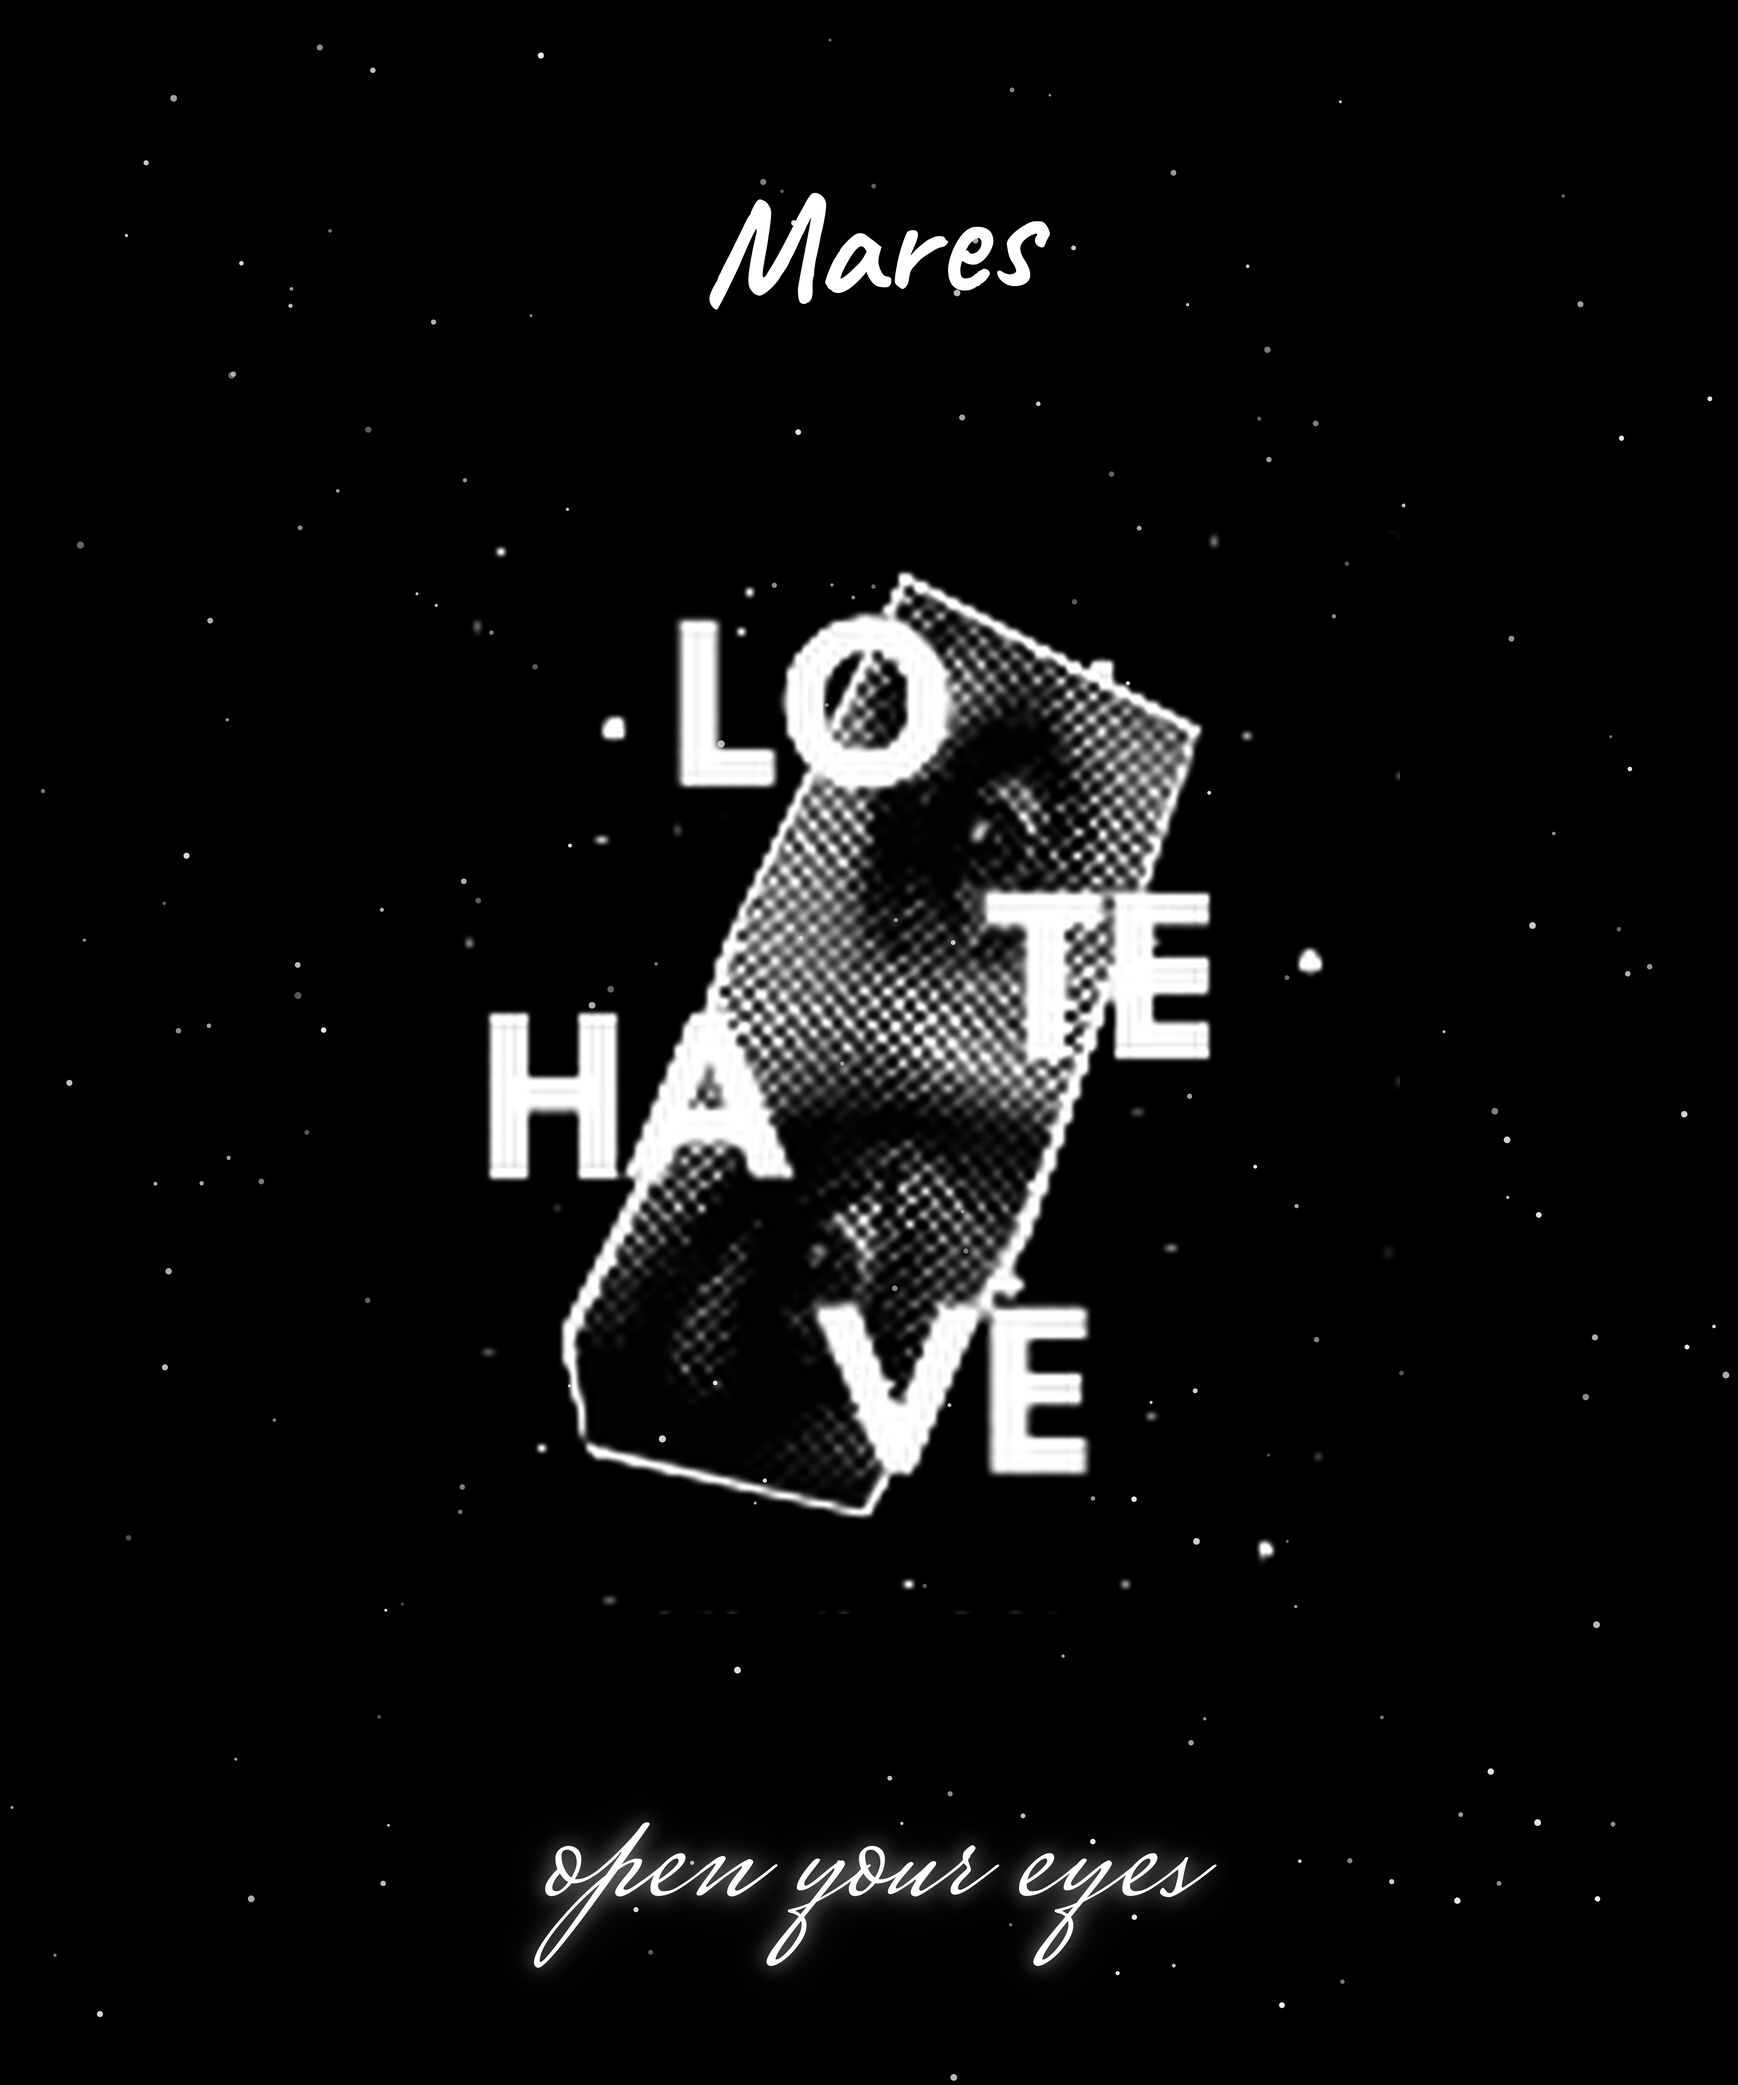
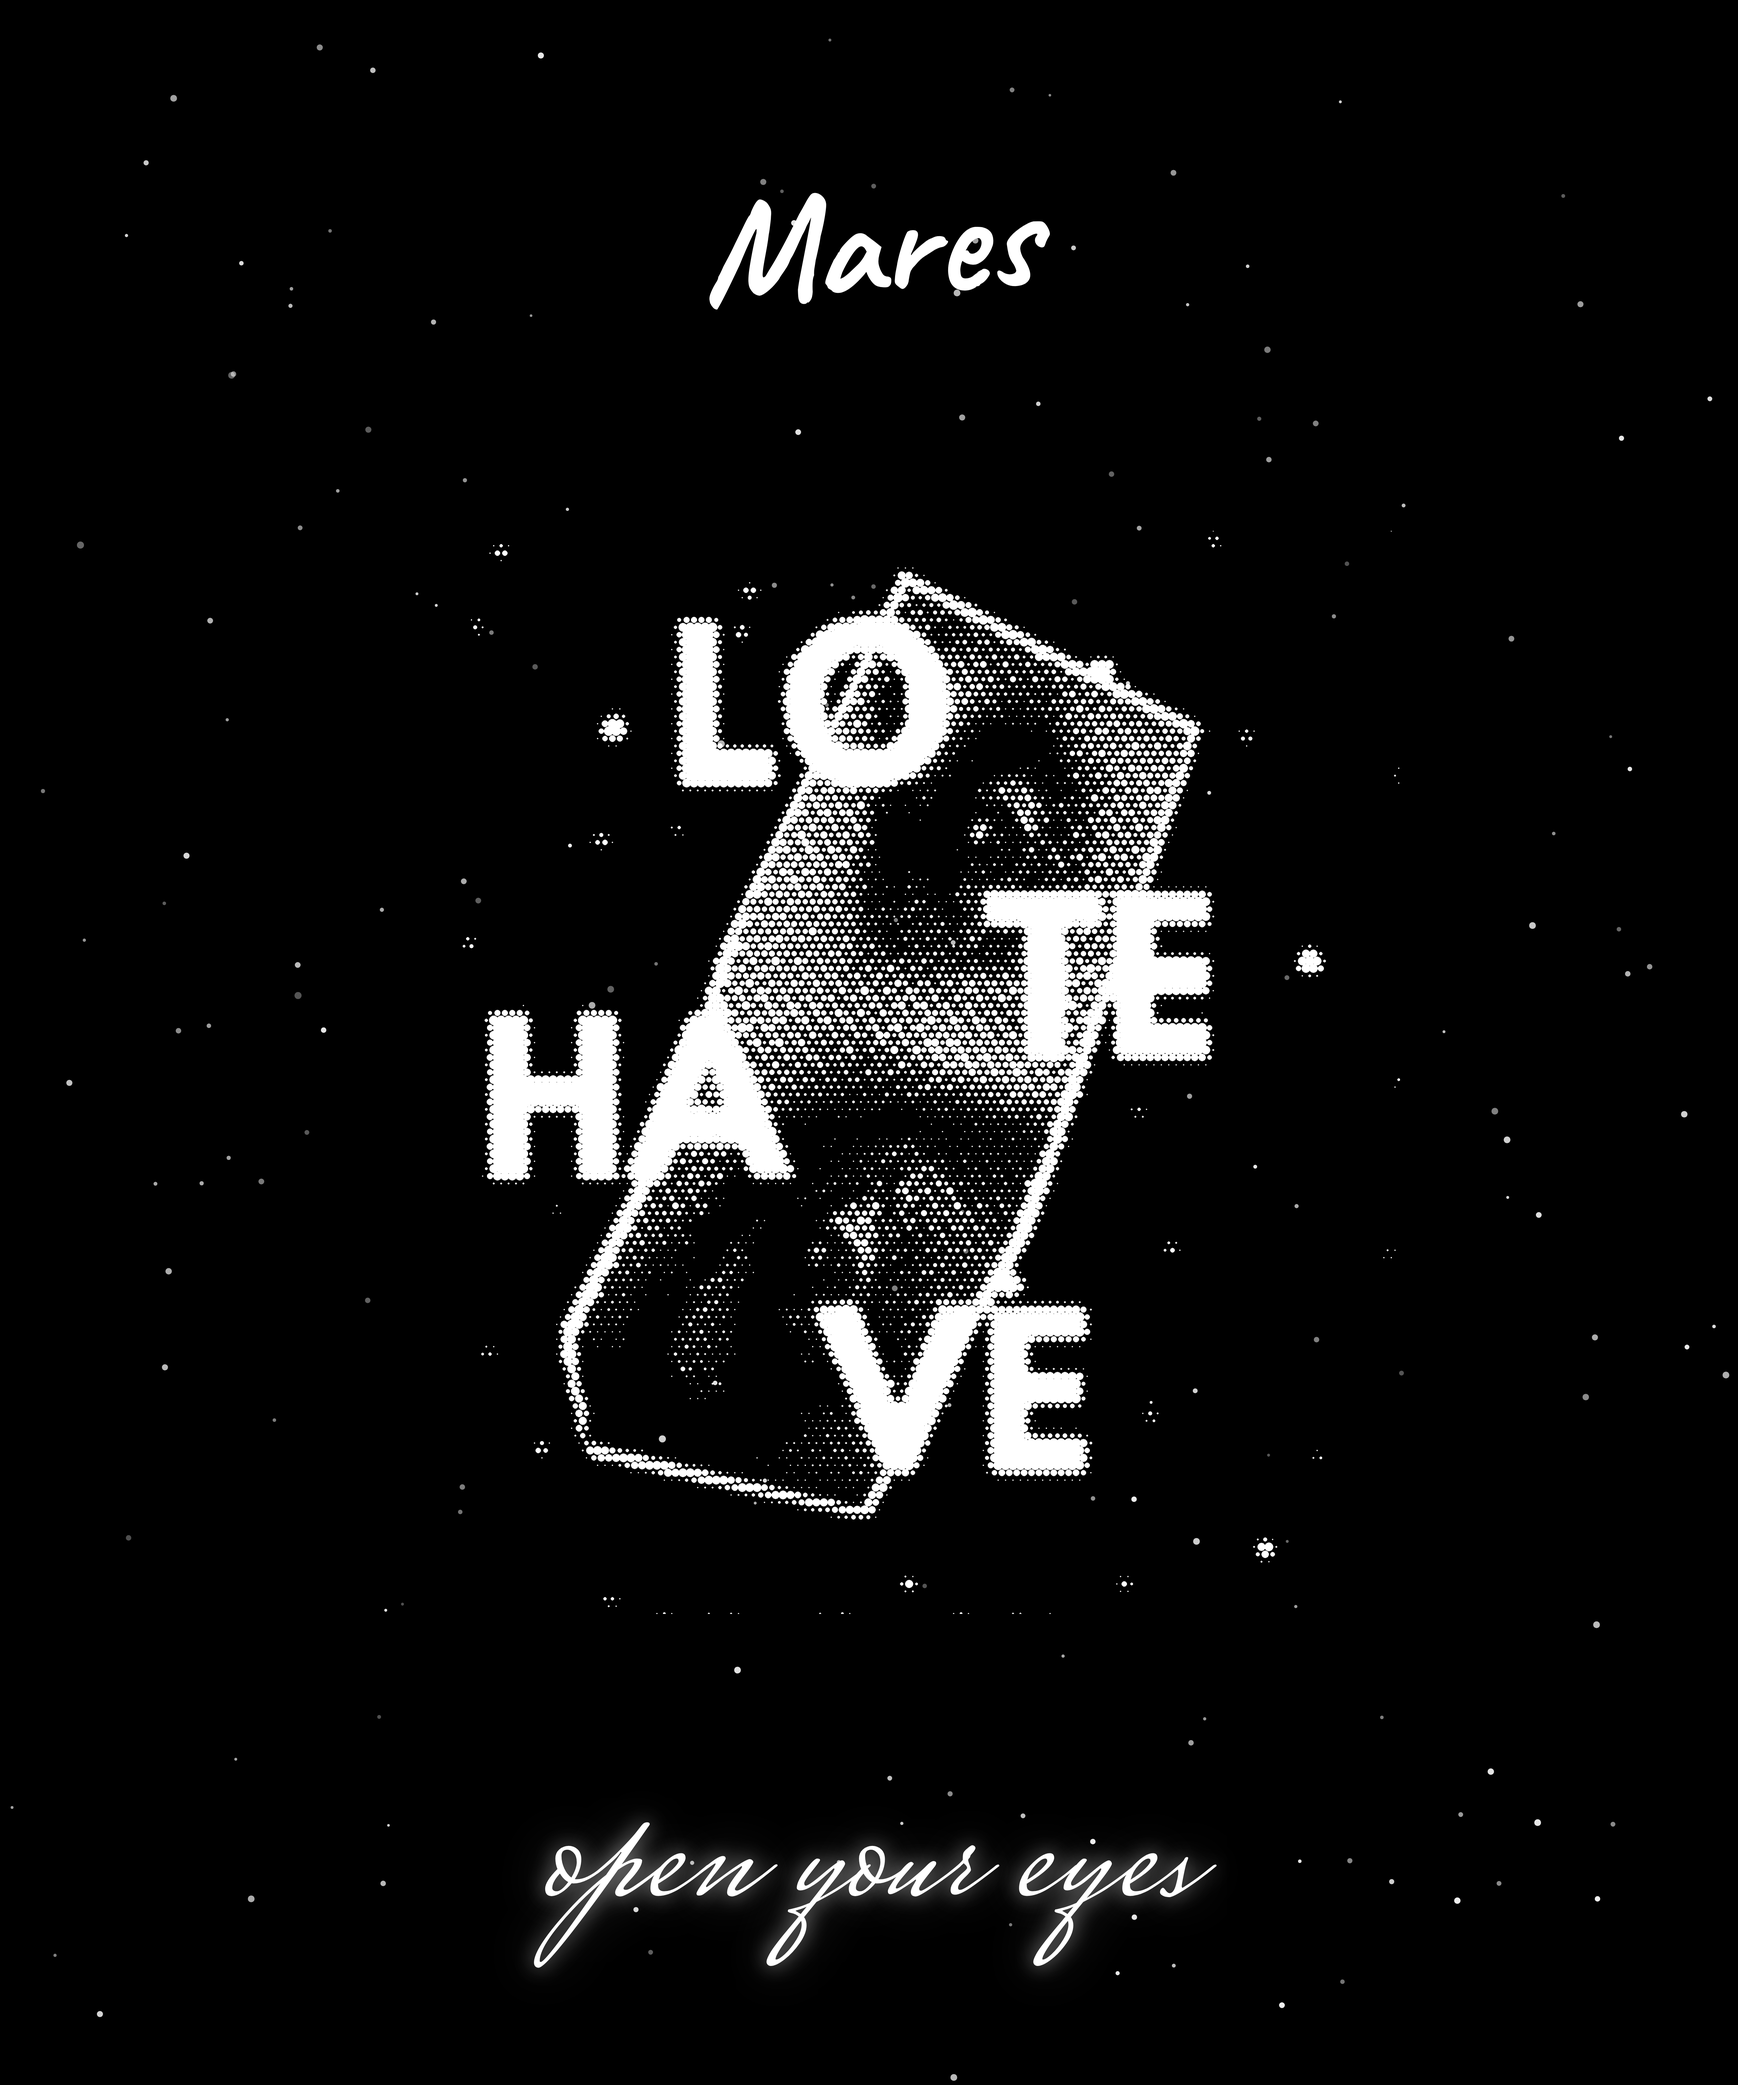
Halftone rescreen for eye and heart prints, hero hoodies on homepage
Rebuild the duality eye strip and anatomical heart print art as crisp
high-resolution halftone rasters matching the storefront look instead
of blockily upscaled bitmaps. Add floating hoodie mockups flanking the
hero planet (site + Shopify theme) with a 'heavyweight organic hoodies'
tagline so the product is obvious at first glance.

Claude-Session: https://claude.ai/code/session_01CMmd7hHney9Uuvu8uMddpz

Changed region(s): [[0.28, 0.2806, 0.7156, 0.7481], [0.7467, 0.4364, 0.7778, 0.4676]]

diff --git a/mares-shop.html b/mares-shop.html
@@ -100,7 +100,31 @@
             -webkit-text-stroke: 1px rgba(255, 255, 255, 0.18);
             filter: drop-shadow(0 3px 5px rgba(0, 0, 0, 0.55)) drop-shadow(0 0 26px rgba(38, 198, 218, 0.35));
         }
-        .hero p.motto { font-size: 1.4rem; font-weight: 300; max-width: 700px; color: #ccc; margin-bottom: 3rem; }
+        .hero p.motto { font-size: 1.4rem; font-weight: 300; max-width: 700px; color: #ccc; margin-bottom: 1rem; }
+        .hero p.hero-sub {
+            font-size: 0.8rem; text-transform: uppercase; letter-spacing: 4px; color: var(--accent-cyan);
+            margin-bottom: 2.6rem; font-weight: 700; position: relative; z-index: 2;
+        }
+
+        /* Floating hoodies flanking the planet */
+        .hero-hoodie {
+            position: absolute; top: 33%; width: 232px; text-decoration: none; z-index: 1;
+            display: flex; flex-direction: column; align-items: center; gap: 4px;
+            transition: transform .35s ease;
+        }
+        .hero-hoodie-left  { left: calc(50% - 460px); transform: rotate(-7deg); animation: float 7.5s ease-in-out infinite; }
+        .hero-hoodie-right { left: calc(50% + 228px); transform: rotate(7deg);  animation: float 8.5s ease-in-out .8s infinite; }
+        .hero-hoodie-left:hover  { transform: rotate(-4deg) scale(1.05); }
+        .hero-hoodie-right:hover { transform: rotate(4deg) scale(1.05); }
+        .hero-hoodie-art { width: 100%; filter: drop-shadow(0 18px 30px rgba(0,0,0,0.65)) drop-shadow(0 0 26px rgba(38,198,218,0.12)); }
+        .hero-hoodie-art svg { width: 100%; height: auto; display: block; }
+        .hero-hoodie-tag {
+            font-size: 0.68rem; text-transform: uppercase; letter-spacing: 2.5px; color: #9adfe8;
+            background: rgba(38,198,218,0.08); border: 1px solid rgba(38,198,218,0.35);
+            padding: 5px 12px; border-radius: 14px; white-space: nowrap;
+        }
+        @media (max-width: 1180px) { .hero-hoodie { width: 178px; } .hero-hoodie-left { left: calc(50% - 372px); } .hero-hoodie-right { left: calc(50% + 194px); } }
+        @media (max-width: 860px) { .hero-hoodie { display: none; } }
 
         /* Hero CTA buttons */
         .hero-cta { display: flex; gap: 14px; justify-content: center; flex-wrap: wrap; margin-bottom: 3rem; }
@@ -716,6 +740,7 @@
     <header class="hero">
         <h1 class="reveal">Open Your Eyes</h1>
         <p class="motto reveal">What we wear expresses not only who we are, but how we treat our planet.</p>
+        <p class="hero-sub reveal">Heavyweight organic hoodies &middot; limited Drop 1</p>
 
         <div class="hero-cta reveal">
             <a class="cta cta-primary" href="#collection">&#128717; Shop</a>
@@ -737,6 +762,16 @@
             </div>
             <div class="sun-hint">&#9758; drag me</div>
         </div>
+
+        <!-- FLOATING HOODIES — make it obvious we sell hoodies -->
+        <a class="hero-hoodie hero-hoodie-left reveal" href="#collection" aria-label="Planetary Heart hoodie">
+            <div class="hero-hoodie-art" id="heroHoodieL"></div>
+            <span class="hero-hoodie-tag">Planetary Heart · €89</span>
+        </a>
+        <a class="hero-hoodie hero-hoodie-right reveal" href="#collection" aria-label="Blind Statue hoodie">
+            <div class="hero-hoodie-art" id="heroHoodieR"></div>
+            <span class="hero-hoodie-tag">Blind Statue · €85</span>
+        </a>
 
         <!-- PLANET EARTH WITH EYE & BIG TEAR -->
         <div class="planet-wrap reveal">
@@ -1769,6 +1804,11 @@
         }
         document.addEventListener('DOMContentLoaded', () => {
             document.getElementById('discountOverlay').addEventListener('click', function (e) { if (e.target === this) closeDiscount(); });
+            // Hero hoodies: clone the product mockups so the hero shows what we sell
+            const hl = document.getElementById('heroHoodieL'), hr = document.getElementById('heroHoodieR');
+            const t3 = document.getElementById('tee-3'), t1 = document.getElementById('tee-1');
+            if (hl && t3) hl.innerHTML = t3.innerHTML;
+            if (hr && t1) hr.innerHTML = t1.innerHTML;
         });
 
         // --- Eye cursor: follows the mouse, blinks and cries on click ---

diff --git a/shopify-theme/assets/mares.css b/shopify-theme/assets/mares.css
@@ -93,7 +93,29 @@
             -webkit-text-stroke: 1px rgba(255, 255, 255, 0.18);
             filter: drop-shadow(0 3px 5px rgba(0, 0, 0, 0.55)) drop-shadow(0 0 26px rgba(38, 198, 218, 0.35));
         }
-        .hero p.motto { font-size: 1.4rem; font-weight: 300; max-width: 700px; color: #ccc; margin-bottom: 3rem; }
+        .hero p.motto { font-size: 1.4rem; font-weight: 300; max-width: 700px; color: #ccc; margin-bottom: 1rem; }
+        .hero p.hero-sub {
+            font-size: 0.8rem; text-transform: uppercase; letter-spacing: 4px; color: var(--accent-cyan);
+            margin-bottom: 2.6rem; font-weight: 700; position: relative; z-index: 2;
+        }
+        .hero-hoodie {
+            position: absolute; top: 33%; width: 232px; text-decoration: none; z-index: 1;
+            display: flex; flex-direction: column; align-items: center; gap: 4px;
+            transition: transform .35s ease;
+        }
+        .hero-hoodie-left  { left: calc(50% - 460px); transform: rotate(-7deg); animation: float 7.5s ease-in-out infinite; }
+        .hero-hoodie-right { left: calc(50% + 228px); transform: rotate(7deg);  animation: float 8.5s ease-in-out .8s infinite; }
+        .hero-hoodie-left:hover  { transform: rotate(-4deg) scale(1.05); }
+        .hero-hoodie-right:hover { transform: rotate(4deg) scale(1.05); }
+        .hero-hoodie-art { width: 100%; filter: drop-shadow(0 18px 30px rgba(0,0,0,0.65)) drop-shadow(0 0 26px rgba(38,198,218,0.12)); }
+        .hero-hoodie-art svg { width: 100%; height: auto; display: block; }
+        .hero-hoodie-tag {
+            font-size: 0.68rem; text-transform: uppercase; letter-spacing: 2.5px; color: #9adfe8;
+            background: rgba(38,198,218,0.08); border: 1px solid rgba(38,198,218,0.35);
+            padding: 5px 12px; border-radius: 14px; white-space: nowrap;
+        }
+        @media (max-width: 1180px) { .hero-hoodie { width: 178px; } .hero-hoodie-left { left: calc(50% - 372px); } .hero-hoodie-right { left: calc(50% + 194px); } }
+        @media (max-width: 860px) { .hero-hoodie { display: none; } }
 
         /* Hero CTA buttons */
         .hero-cta { display: flex; gap: 14px; justify-content: center; flex-wrap: wrap; margin-bottom: 3rem; }

diff --git a/shopify-theme/assets/mares.js b/shopify-theme/assets/mares.js
@@ -425,6 +425,10 @@
         }
         document.addEventListener('DOMContentLoaded', () => {
             document.getElementById('discountOverlay').addEventListener('click', function (e) { if (e.target === this) closeDiscount(); });
+            var hl = document.getElementById('heroHoodieL'), hr = document.getElementById('heroHoodieR');
+            var t3 = document.getElementById('tee-3'), t1 = document.getElementById('tee-1');
+            if (hl && t3) hl.innerHTML = t3.innerHTML;
+            if (hr && t1) hr.innerHTML = t1.innerHTML;
         });
 
         // --- Eye cursor: follows the mouse, blinks and cries on click ---
